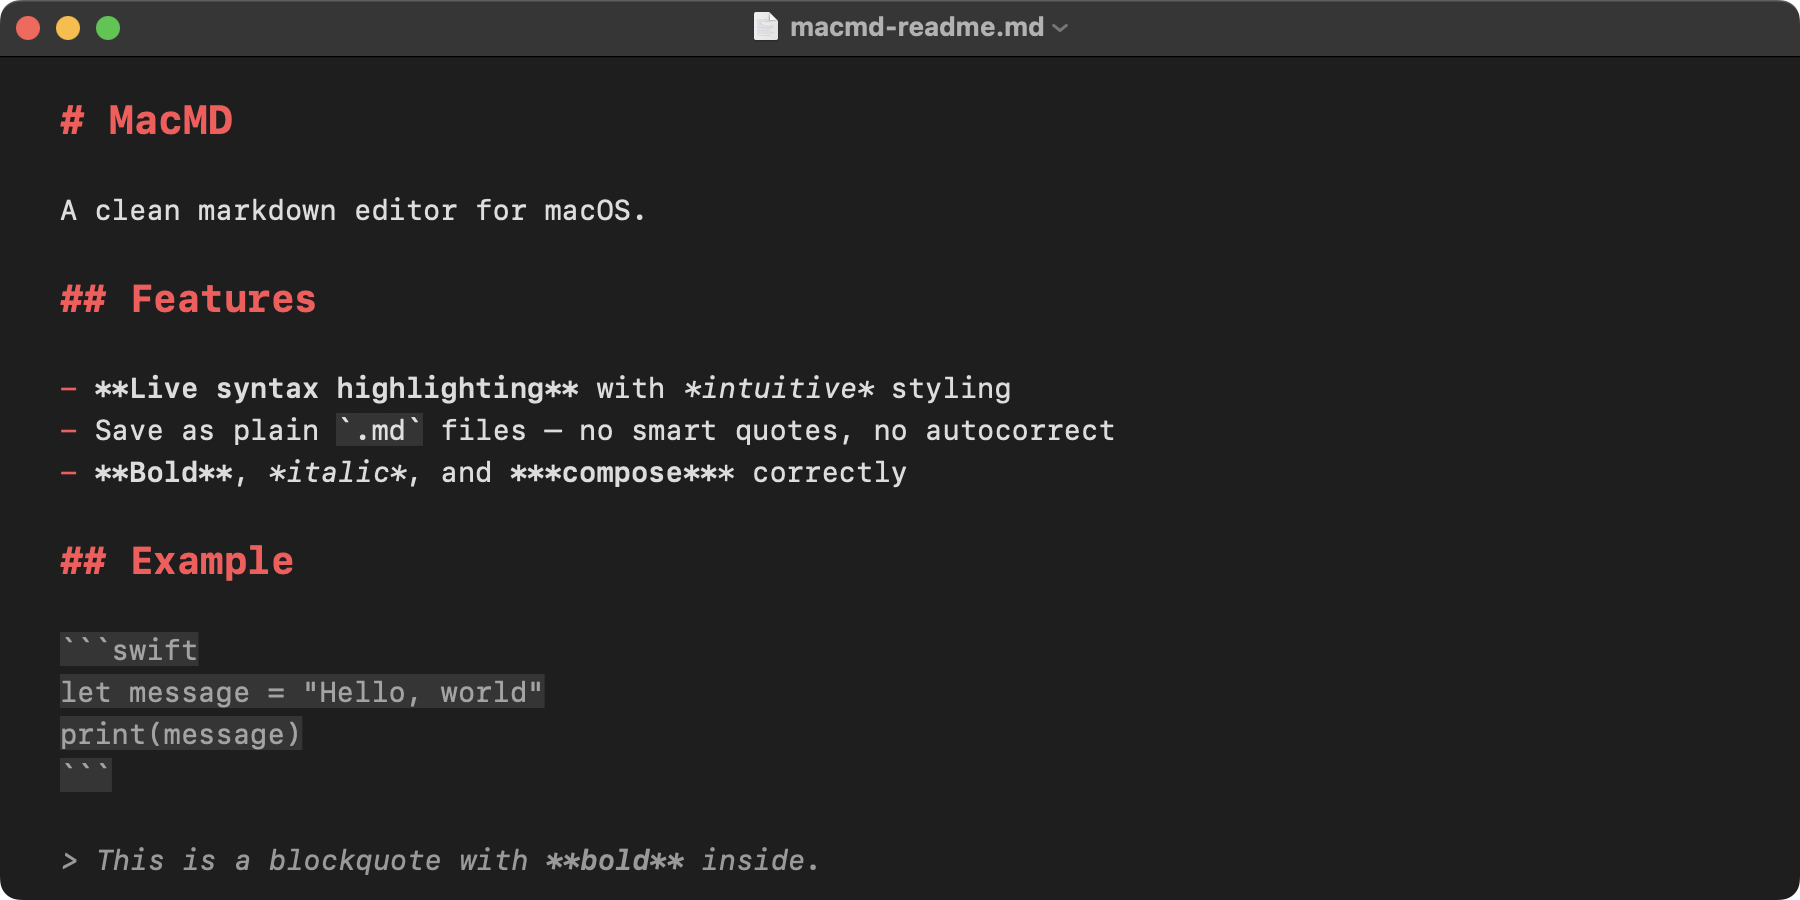
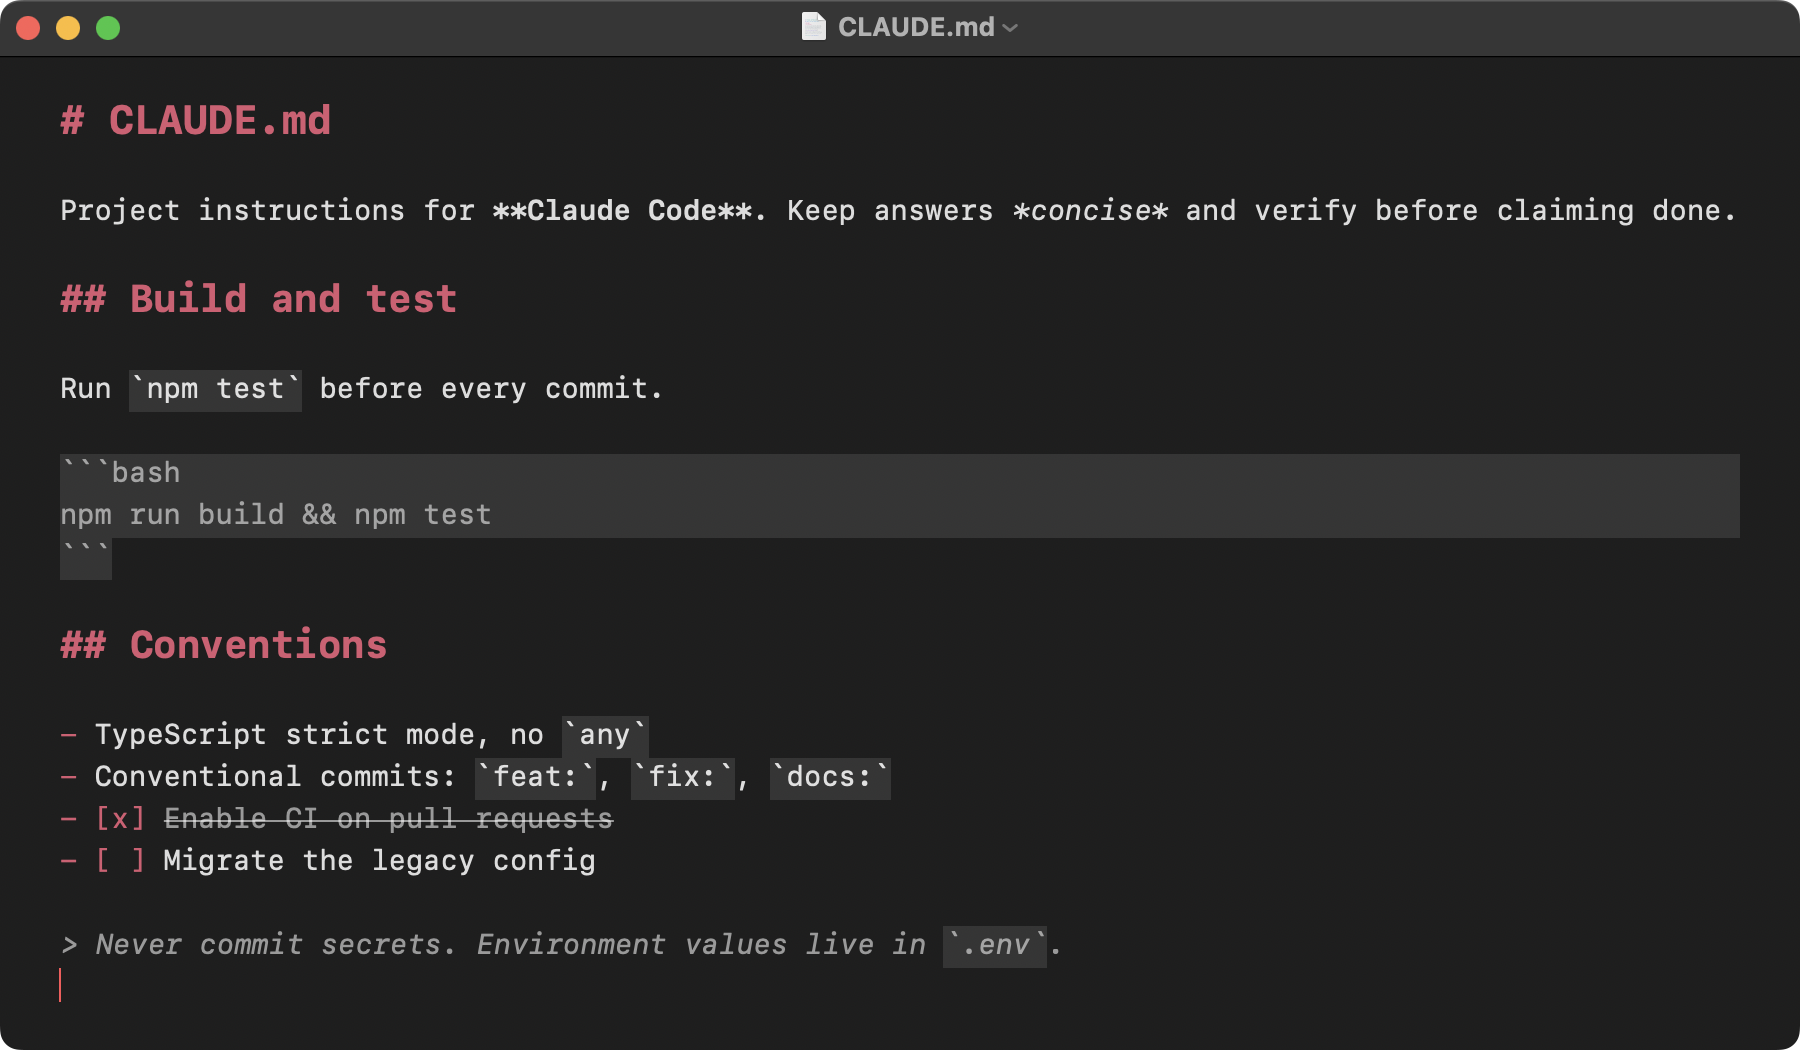
docs: market-ready public presentation for v1.0.0 (#73)

diff --git a/README.md b/README.md
@@ -1,10 +1,30 @@
 # MacMD
 
-A simple, clean, secure markdown editor for macOS. Feels like TextEdit, but for `.md` files and with live syntax highlighting.
+A lightweight, native, open source Markdown editor for macOS. MacMD feels like TextEdit built for `.md` files: open a Markdown file, edit it as plain text with live syntax highlighting, and save exactly the bytes you typed. The download is about 1.5 MB, and the app makes no network connections of any kind.
 
-Built for editing agent.md/claude.md, skill definitions, agent configs, READMEs, and similar small-to-medium markdown files.
+MacMD is made for the Markdown files developers touch every day: `README.md`, `CLAUDE.md`, `AGENTS.md`, agent and skill configs, notes, and docs.
 
-![MacMD screenshot](docs/screenshot.png)
+**[Download the latest release](../../releases/latest)** for macOS 14 (Sonoma) or later. Free, MIT licensed.
+
+![MacMD editing a CLAUDE.md agent config file with live Markdown syntax highlighting in dark mode](docs/screenshot.png)
+
+## Why MacMD
+
+- **Native and lightweight.** Swift and AppKit, not an Electron wrapper. The installer is about 1.5 MB, and uninstalling is dragging one app to the Trash.
+- **Live syntax highlighting.** Headings, bold, italic, code, links, lists, task lists, blockquotes, and front matter are styled as you type. The text stays plain Markdown; nothing is hidden or rewritten.
+- **Plain text in, plain text out.** No smart quotes, no dash substitution, no autocorrect, no link detection. Paste always comes in as plain text. What you save is what you typed.
+- **Private by design.** No network access, no telemetry, no analytics, no accounts. The app contains no networking code at all.
+- **Free and open source.** MIT licensed, with the full Swift source in this repository.
+
+## Built for editing CLAUDE.md, AGENTS.md, and agent configs
+
+Markdown is the config language of AI coding tools, and those files break in editors designed for prose. MacMD is a safe place to edit `CLAUDE.md`, `AGENTS.md`, `agent.md`, skill definitions, and rule files:
+
+- No smart punctuation or autocorrect, so prompts, code fences, and flags survive editing byte-for-byte.
+- YAML (`---`) and TOML (`+++`) front matter is recognized at the top of the file and styled as muted metadata.
+- Fenced code blocks suppress inline formatting, so example code stays code.
+- Task lists highlight, and checkboxes toggle with a click.
+- Byte-exact saves mean clean `git diff`s. The only exceptions are POSIX conventions: a single trailing newline is added if missing, and a leading UTF-8 BOM is stripped on read.
 
 ## Install
 
@@ -16,7 +36,7 @@ Go to the [latest release](../../releases/latest). You'll see several files; gra
 
 | File | What it is | Who should click it |
 |---|---|---|
-| **`MacMD-<version>.dmg`** | The installer. ~400 KB. | **Most people: this is the one you want.** |
+| **`MacMD-<version>.dmg`** | The installer. ~1.5 MB. | **Most people: this is the one you want.** |
 | `MacMD-<version>.zip` | Same app, zipped instead of in a DMG. | Alternative if your browser doesn't like DMGs. |
 | `*.sha256` | Tiny checksum files. | Optional; for verifying your download wasn't tampered with. |
 | `Source code (zip / tar.gz)` | The Swift source. | Only if you want to build it yourself. Ignore otherwise. |
@@ -48,36 +68,47 @@ After this one-time approval, MacMD launches normally every time.
 
 Any of these work:
 
-- Double-click any `.md` file and choose **Open With → MacMD** (or set it as default via File → Get Info → Open with → Change All).
+- Right-click any `.md` file and choose **Open With → MacMD** (or set it as default via File → Get Info → Open with → Change All).
 - Drag a `.md` file onto the MacMD icon in the Dock.
 - File → Open inside MacMD.
 - Cmd-N for a new untitled document.
 
+MacMD opens `.md`, `.markdown`, `.mdown`, and `.mkd` files.
+
 ### Uninstall
 
-Drag `MacMD.app` from Applications to Trash. No daemons, no receipts, no leftover prefs.
+Drag `MacMD.app` from Applications to Trash. No daemons, no receipts, no login items. The only trace left behind is the standard small preferences file every Mac app keeps; remove `~/Library/Preferences/com.sleetcrash.MacMD.plist` too if you want zero trace.
 
 ## Write and save
 
-File menu works exactly as you'd expect. All commands use standard Mac keybindings.
+The File menu works exactly as you'd expect, and all commands use standard Mac keybindings:
 
     Cmd-N     New document
     Cmd-O     Open an existing .md file
     Cmd-S     Save (prompts for filename + location on first save)
     Cmd-Shift-S   Save As
+    Cmd-P     Print
     Cmd-W     Close window (prompts to save if dirty)
     Cmd-Z / Cmd-Shift-Z   Undo / Redo
     Cmd-F     Find (inline find bar)
+    Cmd-Opt-F     Find and Replace
+    Cmd-B / Cmd-I     Bold / Italic the selection (wraps or unwraps)
+    Cmd-Shift-X   Strikethrough the selection
+    Cmd-K     Wrap the selection as a link
     Cmd-Shift-L   Toggle the task checkbox on the current line
+    Cmd-/     Show Formatting: switch between styled Markdown and plain
+              source text with line numbers
     Cmd-+ / Cmd--   Increase / decrease editor font size
     Cmd-0     Reset editor font size to the default
-    Cmd-,     Settings (currently just the editor font size)
+    Cmd-,     Settings (appearance, themes, fonts, cursor, editing defaults)
 
-The editor autosaves in the background. If the app quits unexpectedly, reopening recovers your work. Recent files appear under `File → Open Recent`.
+Pressing Return on a list item continues the list: the next marker is inserted for you, with ordered-list numbering continued automatically. Spell check underlines misspellings as you type, with an optional grammar check. An optional word count and reading-time estimate sits under the editor (View → Show Word Count).
+
+The editor autosaves in the background. If the app quits unexpectedly, reopening recovers your work. Recent files appear under File → Open Recent, and a built-in offline Help window (Help → MacMD Help) covers the editor, files, settings, and shortcuts.
 
 ## What gets highlighted
 
-As you type, MacMD styles these markdown constructs live:
+As you type, MacMD styles these Markdown constructs live:
 
     # Heading 1 through ###### Heading 6   → bold, theme color, sized per level
     **bold** and __bold__                  → bold
@@ -96,7 +127,9 @@ As you type, MacMD styles these markdown constructs live:
     - [ ] todo                             → bracket inherits section color; click to toggle
     - [x] done                             → bracket inherits section color + body strike-through
     > blockquote                           → muted + italic, composes with bold inside
-    ---                                    → muted
+    ---  (or +++)  front matter            → muted metadata block, recognized at the
+                                              top of the document (YAML and TOML)
+    ---                                    → horizontal rule, muted
 
 Highlighting updates only the paragraph you're editing, so typing stays smooth on long files. Inside fenced code blocks, inline rules are intentionally suppressed, so code stays code.
 
@@ -106,26 +139,49 @@ Semantic colors are used throughout, so Dark Mode adapts automatically when you 
 
 Plain UTF-8 text. Byte-for-byte what you typed: no smart quotes, no dash substitution, no link detection, no autocorrect. Paste from another app always comes in as plain text.
 
-Two narrow exceptions to byte fidelity, in line with what BBEdit, Sublime, and VS Code do:
+Two narrow exceptions to byte fidelity, both long-standing text-editor conventions:
 
 - A single trailing newline is appended on save when the document doesn't already end with one (POSIX text-file convention; matters for shell pipelines, `wc -l`, and `git diff`).
-- A leading UTF-8 BOM (`EF BB BF`) is stripped on read, since BOMs are how some Windows editors and web tools sign their UTF-8 output and most editors silent-strip on import.
+- A leading UTF-8 BOM (`EF BB BF`) is stripped on read, since BOMs are how some Windows editors and web tools sign their UTF-8 output and most editors silently strip it on import.
 
 If you try to open a file that isn't valid UTF-8, MacMD refuses and surfaces a clear error rather than silently corrupting it with replacement characters.
 
 Files larger than 64 MiB are rejected outright with a standard document-open error. Files between 8 MiB and 64 MiB open with syntax highlighting disabled so typing stays responsive; they're still fully editable, just unstyled.
 
-## Security
+## Themes and settings
 
-MacMD has no network access, no access to the camera, microphone, location, photos, contacts, calendars, or Spotlight indexing. It doesn't register any URL schemes, daemons, or background services. The hardened runtime is enabled and the binary is code-signed.
+Open Settings (Cmd-,) for a tabbed settings window with a live preview.
+
+The **Appearance** tab:
+
+- **Mode**: Light, Dark, or System (follows macOS).
+- **Background**: the default that follows your mode, or any custom color, with the text adjusting itself to stay readable.
+- **Scheme**: Default (headings bold and sized but uncolored), Unified (one color for every heading level), or Standard (three colors: H1, H2, H3, with H4 through H6 inheriting H3).
+- **Theme**: preset palettes, or a custom palette you build, name, and save, with separate colors for light and dark.
+- **Font**: eight body font families, monospaced and proportional, plus the size (also on the View menu: Cmd-+, Cmd--, Cmd-0).
+- **Cursor**: Bar, Block, or Underline, with an optional blink.
+
+The **Editing** tab sets the spelling and grammar defaults, plus the size new windows open at, with a Use Current Window button to capture the size of the window you're using. Reopened files keep their own remembered size.
+
+List markers inherit the color of the heading section they sit under. Body text always uses the adaptive label color.
+
+## Security and privacy
+
+MacMD makes no network connections: no update checks, no crash reporting, no analytics, no telemetry. The source contains no networking code, and the app requests no access to the camera, microphone, location, photos, contacts, or calendars. It registers no URL schemes, daemons, or background services. The hardened runtime is enabled and the binary is code-signed.
 
 The app only ever opens and saves files you explicitly choose through the standard Open and Save panels; it doesn't browse your filesystem on its own.
 
-As of 1.0.2 MacMD is **not sandboxed**. The App Sandbox was removed because it caused intermittent save failures on external / USB volumes (the security-scoped URL granted at file-open time stopped being valid after the drive slept or was re-mounted, which is a known limitation of SwiftUI's `DocumentGroup`). This matches the posture of editors like BBEdit, Sublime Text, and VS Code.
+MacMD is **not sandboxed**. The App Sandbox was removed because it caused intermittent save failures on external and USB volumes (the security-scoped URL granted at file-open time stopped being valid after the drive slept or was re-mounted, a known limitation of SwiftUI's `DocumentGroup`). This matches the posture of editors like BBEdit, Sublime Text, and VS Code.
 
 You can verify at any time:
 
     codesign -dv --entitlements - /path/to/MacMD.app
+
+Security reports: see [SECURITY.md](SECURITY.md).
+
+## Scope
+
+The current release is deliberately an editor, not an IDE: there is no rendered preview pane, no export, no multi-cursor editing, no outline pane, and no file browser. A rendered preview with HTML export is in development on `main` and will ship as version 2.0.
 
 ## Build from source
 
@@ -139,66 +195,8 @@ Run tests:
 
     xcodebuild test -project MacMD.xcodeproj -scheme MacMD -destination 'platform=macOS'
 
-The test suite (54 tests as of 1.1.1) covers every syntax highlighting rule and the tricky edge cases: bold+italic composition, unclosed and newly-added/removed code fences, tilde-vs-backtick fence pairing, list-marker vs italic disambiguation, paragraph-style preservation, document size guard, BOM stripping, trailing-newline policy, the task-list toggle (click and keyboard), editor font-size bounds, and a guard against pathological emphasis lines.
+The test suite covers every highlighting rule and the tricky edge cases: bold and italic composition, unclosed and reopened code fences, list-marker versus italic disambiguation, BOM stripping, the trailing-newline policy, the document size guards, and the task-list toggle. See [CONTRIBUTING.md](CONTRIBUTING.md) for the project layout and release packaging.
 
-### Produce a release bundle
+## License
 
-    Scripts/package.sh X.Y.Z
-
-This runs a clean Release build and produces four artifacts in `dist/`:
-
-    MacMD-X.Y.Z.zip           signature-preserving zip (built with ditto)
-    MacMD-X.Y.Z.zip.sha256
-    MacMD-X.Y.Z.dmg           drag-to-Applications installer
-    MacMD-X.Y.Z.dmg.sha256
-
-Upload all four to the GitHub release page. Most users prefer the DMG; the zip is a smaller alternative.
-
-## Project layout
-
-    MacMD/
-      README.md                   This file
-      LICENSE                     MIT
-      CHANGELOG.md                Version history
-      .gitignore
-      MacMD.xcodeproj/            Xcode project
-      MacMD/                      Source
-        MacMDApp.swift            Entry point; @main; DocumentGroup
-        MarkdownDocument.swift    FileDocument; UTF-8 read/write
-        DocumentView.swift        Thin SwiftUI wrapper around the text view
-        MarkdownTextView.swift    NSViewRepresentable wrapping NSTextView
-        MarkdownHighlighter.swift NSTextStorageDelegate; regex rules
-        Theme.swift               Fonts, colors, paragraph style
-        Info.plist                Document types, UTI declarations
-        MacMD.entitlements        Empty (sandbox removed in 1.0.2)
-        Assets.xcassets/          AppIcon + AccentColor
-      MacMDTests/
-        MarkdownHighlighterTests.swift
-        MarkdownDocumentTests.swift
-        TaskListInteractionTests.swift
-      Scripts/
-        README.md
-        make_icon.swift           Regenerates the app icon PNGs
-        make_social_preview.swift Regenerates the GitHub social preview card
-        package.sh                Builds Release and produces zip + dmg in dist/
-      docs/
-        screenshot.png
-        social-preview.png
-      dist/                       (gitignored) release artifacts go here
-
-## Theming
-
-Open Settings (Cmd-,) to color your headings:
-
-- **Mode**: Light, Dark, or System (follows macOS).
-- **Scheme**: Default (no color, the out-of-box default), Unified (one color for every heading level), or Standard (three colors: H1, H2, H3, with H4–H6 inheriting H3).
-- **Theme**: preset palettes (RGB, CMY(K), and four EVA palettes for Standard; eight single colors for Unified), or a custom palette you name and save. Each color is tuned for both light and dark.
-- **Size**: the editor font size (also on the View menu: Cmd-+, Cmd--, Cmd-0).
-
-List markers inherit the color of the heading section they sit under. Body text always uses the adaptive label color. With the Default scheme, headings are bold and sized but not colored.
-
-## Known intentional limits
-
-No live rendered preview pane. No toolbar. No word count, export to HTML, or front-matter handling. The goal is "simple like TextEdit, but for markdown"; anything beyond that is out of scope.
-
-No multi-cursor editing (NSTextView supports it; MacMD preserves only the primary selection through external text updates). No outline pane, no file browser.
+MIT. See [LICENSE](LICENSE). Built by [sleetcrash](https://github.com/sleetcrash).

diff --git a/CONTRIBUTING.md b/CONTRIBUTING.md
@@ -1,0 +1,44 @@
+# Contributing to MacMD
+
+Thanks for your interest. MacMD is a small, single-maintainer project, so the process is deliberately light: open an issue for bugs and ideas, open a pull request for fixes.
+
+## Reporting bugs and requesting features
+
+- Use the [issue forms](../../issues/new/choose). For bugs, the MacMD version, your macOS version, and a minimal Markdown snippet that reproduces the problem make fixes much faster.
+- Security issues go through private reporting instead; see [SECURITY.md](SECURITY.md).
+
+## Development setup
+
+Requires Xcode 16 or newer. No package manager, no dependencies to install.
+
+Build:
+
+    xcodebuild -project MacMD.xcodeproj -scheme MacMD -configuration Release -destination 'platform=macOS' build
+
+Test:
+
+    xcodebuild test -project MacMD.xcodeproj -scheme MacMD -destination 'platform=macOS'
+
+Or open `MacMD.xcodeproj` in Xcode and press Cmd-R.
+
+## Project layout
+
+    MacMD/            App source (Swift, SwiftUI + AppKit)
+    MacMDTests/       Unit and integration tests
+    MacMD.xcodeproj/  Xcode project
+    Scripts/          Icon, social-preview, and release-packaging scripts (see Scripts/README.md)
+    docs/             Screenshot and social-preview images
+
+## House rules
+
+Pull requests run CI (build plus the full test suite) and are expected to follow these:
+
+- **Behavior changes come with tests.** Every highlighting rule and file-handling policy is pinned by a test; keep it that way.
+- **Byte fidelity is doctrine.** The editor never rewrites the user's text. The only exceptions are the documented POSIX ones (trailing newline on save, BOM strip on read). Anything that would make MacMD alter saved bytes needs discussion in an issue first.
+- **No em dashes** in first-party files; CI rejects them.
+- **Conventional commits** (`feat:`, `fix:`, `docs:`, `refactor:`, `test:`, `chore:`).
+- **Plain-language comments, and few of them.** Comment only what the code can't say itself.
+
+## Releases
+
+Releases are cut by the maintainer. `Scripts/package.sh X.Y.Z` clean-builds Release and produces the zip, DMG, and sha256 artifacts in `dist/`; details in `Scripts/README.md`.

diff --git a/CHANGELOG.md b/CHANGELOG.md
@@ -4,25 +4,27 @@ All notable changes to MacMD will be documented in this file. The format is base
 
 ## [1.0.0] - 2026-06-11
 
-The first official release of MacMD, a native markdown editor for the Mac. Requires macOS 14 (Sonoma) or later. The development builds previously published from this repository were retired when this release was cut; their history remains in the repository's git log.
+The first official release of MacMD, a native Markdown editor for the Mac. Requires macOS 14 (Sonoma) or later. The development builds previously published from this repository were retired when this release was cut; their history remains in the repository's git log.
 
 ### Editing
 - Live syntax highlighting for headings (H1 through H6), bold, italic, strikethrough, inline code, fenced code blocks (backtick and tilde fences), links, ordered and unordered lists, task lists, blockquotes, front matter (YAML and TOML), and horizontal rules, with correct composition of overlapping styles.
-- Interactive task checkboxes: click a checkbox in the text to toggle it, or use Format > Toggle Task Checkbox (Shift-Command-L).
-- Smart list continuation: pressing Return on a list item starts the next marker and renumbers ordered lists.
-- Find (Command-F), Find and Replace, Find Next and Previous, Use Selection for Find, and Print.
+- Interactive task checkboxes: click a checkbox in the text to toggle it, or use Format → Toggle Task Checkbox (Cmd-Shift-L).
+- Smart list continuation: pressing Return on a list item starts the next marker, continuing the numbering in ordered lists.
+- Find (Cmd-F), Find and Replace, Find Next and Previous, Use Selection for Find, and Print.
 - Format commands that wrap or unwrap the selection: Bold, Italic, Strikethrough, Inline Code, and Link.
-- Show Formatting (Command-Slash) switches every open window between styled markdown and plain source text, with line numbers down the left edge in plain mode.
+- Show Formatting (Cmd-/) switches every open window between styled Markdown and plain source text, with line numbers down the left edge in plain mode.
 - Spell check underlines misspellings as you type, with an optional grammar check.
-- An optional word count and reading-time estimate under the editor (View > Show Word Count).
+- An optional word count and reading-time estimate under the editor (View → Show Word Count).
 
 ### Settings
-- A tabbed Settings window (Command-Comma). The Appearance tab sets Light, Dark, or System mode; the editor background (the default that follows your mode, or any custom color, with the text adjusting itself to stay readable); the coloring scheme and theme, including custom palettes you build, name, and save with separate light and dark colors; the body font (eight families) and size; and the cursor style (Bar, Block, or Underline) with an optional blink, all with a live preview.
+- A tabbed Settings window (Cmd-,). The Appearance tab sets Light, Dark, or System mode; the editor background (the default that follows your mode, or any custom color, with the text adjusting itself to stay readable); the coloring scheme and theme, including custom palettes you build, name, and save with separate light and dark colors; the body font (eight families) and size; and the cursor style (Bar, Block, or Underline) with an optional blink, all with a live preview.
 - The Editing tab sets the spelling and grammar defaults, plus the size new windows open at (in points, with a Use Current Window button to capture the size of the window you are using). Reopened files keep their own remembered size.
 
 ### Files
-- Plain-text UTF-8 markdown (.md, .markdown, .mdown, .mkd) with byte-for-byte fidelity: a malformed encoding is reported instead of silently corrupted, a leading BOM is stripped on read, and a single trailing newline is appended on save, matching POSIX convention.
+- Plain-text UTF-8 Markdown (.md, .markdown, .mdown, .mkd) with byte-for-byte fidelity: a malformed encoding is reported instead of silently corrupted, a leading BOM is stripped on read, and a single trailing newline is appended on save, matching POSIX convention.
 - Large-file guards: files over 8 MiB open without highlighting so typing stays responsive, and files over 64 MiB are refused at open.
 
 ### Help
 - A built-in, offline Help window covering the editor, files, settings, and keyboard shortcuts.
+
+[1.0.0]: https://github.com/sleetcrash/MacMD/releases/tag/v1.0.0

diff --git a/SECURITY.md b/SECURITY.md
@@ -1,6 +1,6 @@
 # Security Policy
 
-MacMD is a local macOS markdown editor. It has no network access, no analytics, and no background services, so its attack surface is limited to the files it opens and saves. Reports that fit that surface are taken seriously.
+MacMD is a local macOS Markdown editor. It has no network access, no analytics, and no background services, so its attack surface is limited to the files it opens and saves. Reports that fit that surface are taken seriously.
 
 ## Supported versions
 
@@ -25,7 +25,7 @@ Helpful details to include:
 
 - The MacMD version (from the app's About window or the release tag).
 - Your macOS version.
-- A minimal markdown file or sequence of steps that triggers the issue.
+- A minimal Markdown file or sequence of steps that triggers the issue.
 - What you observed (crash, hang, unexpected file write, and so on) and what you expected.
 
 ## Scope
@@ -39,7 +39,7 @@ In scope:
 Out of scope (these are documented design decisions, not vulnerabilities):
 
 - The app is signed ad-hoc and is not Apple-notarized. The README covers the one-time first-launch Gatekeeper approval.
-- The app is not sandboxed as of 1.0.2. The Security section of the README explains why.
+- The app is not sandboxed. The Security section of the README explains why.
 - Issues that require an attacker to already have local access to your account, or to modify the installed app bundle.
 
 ## Response